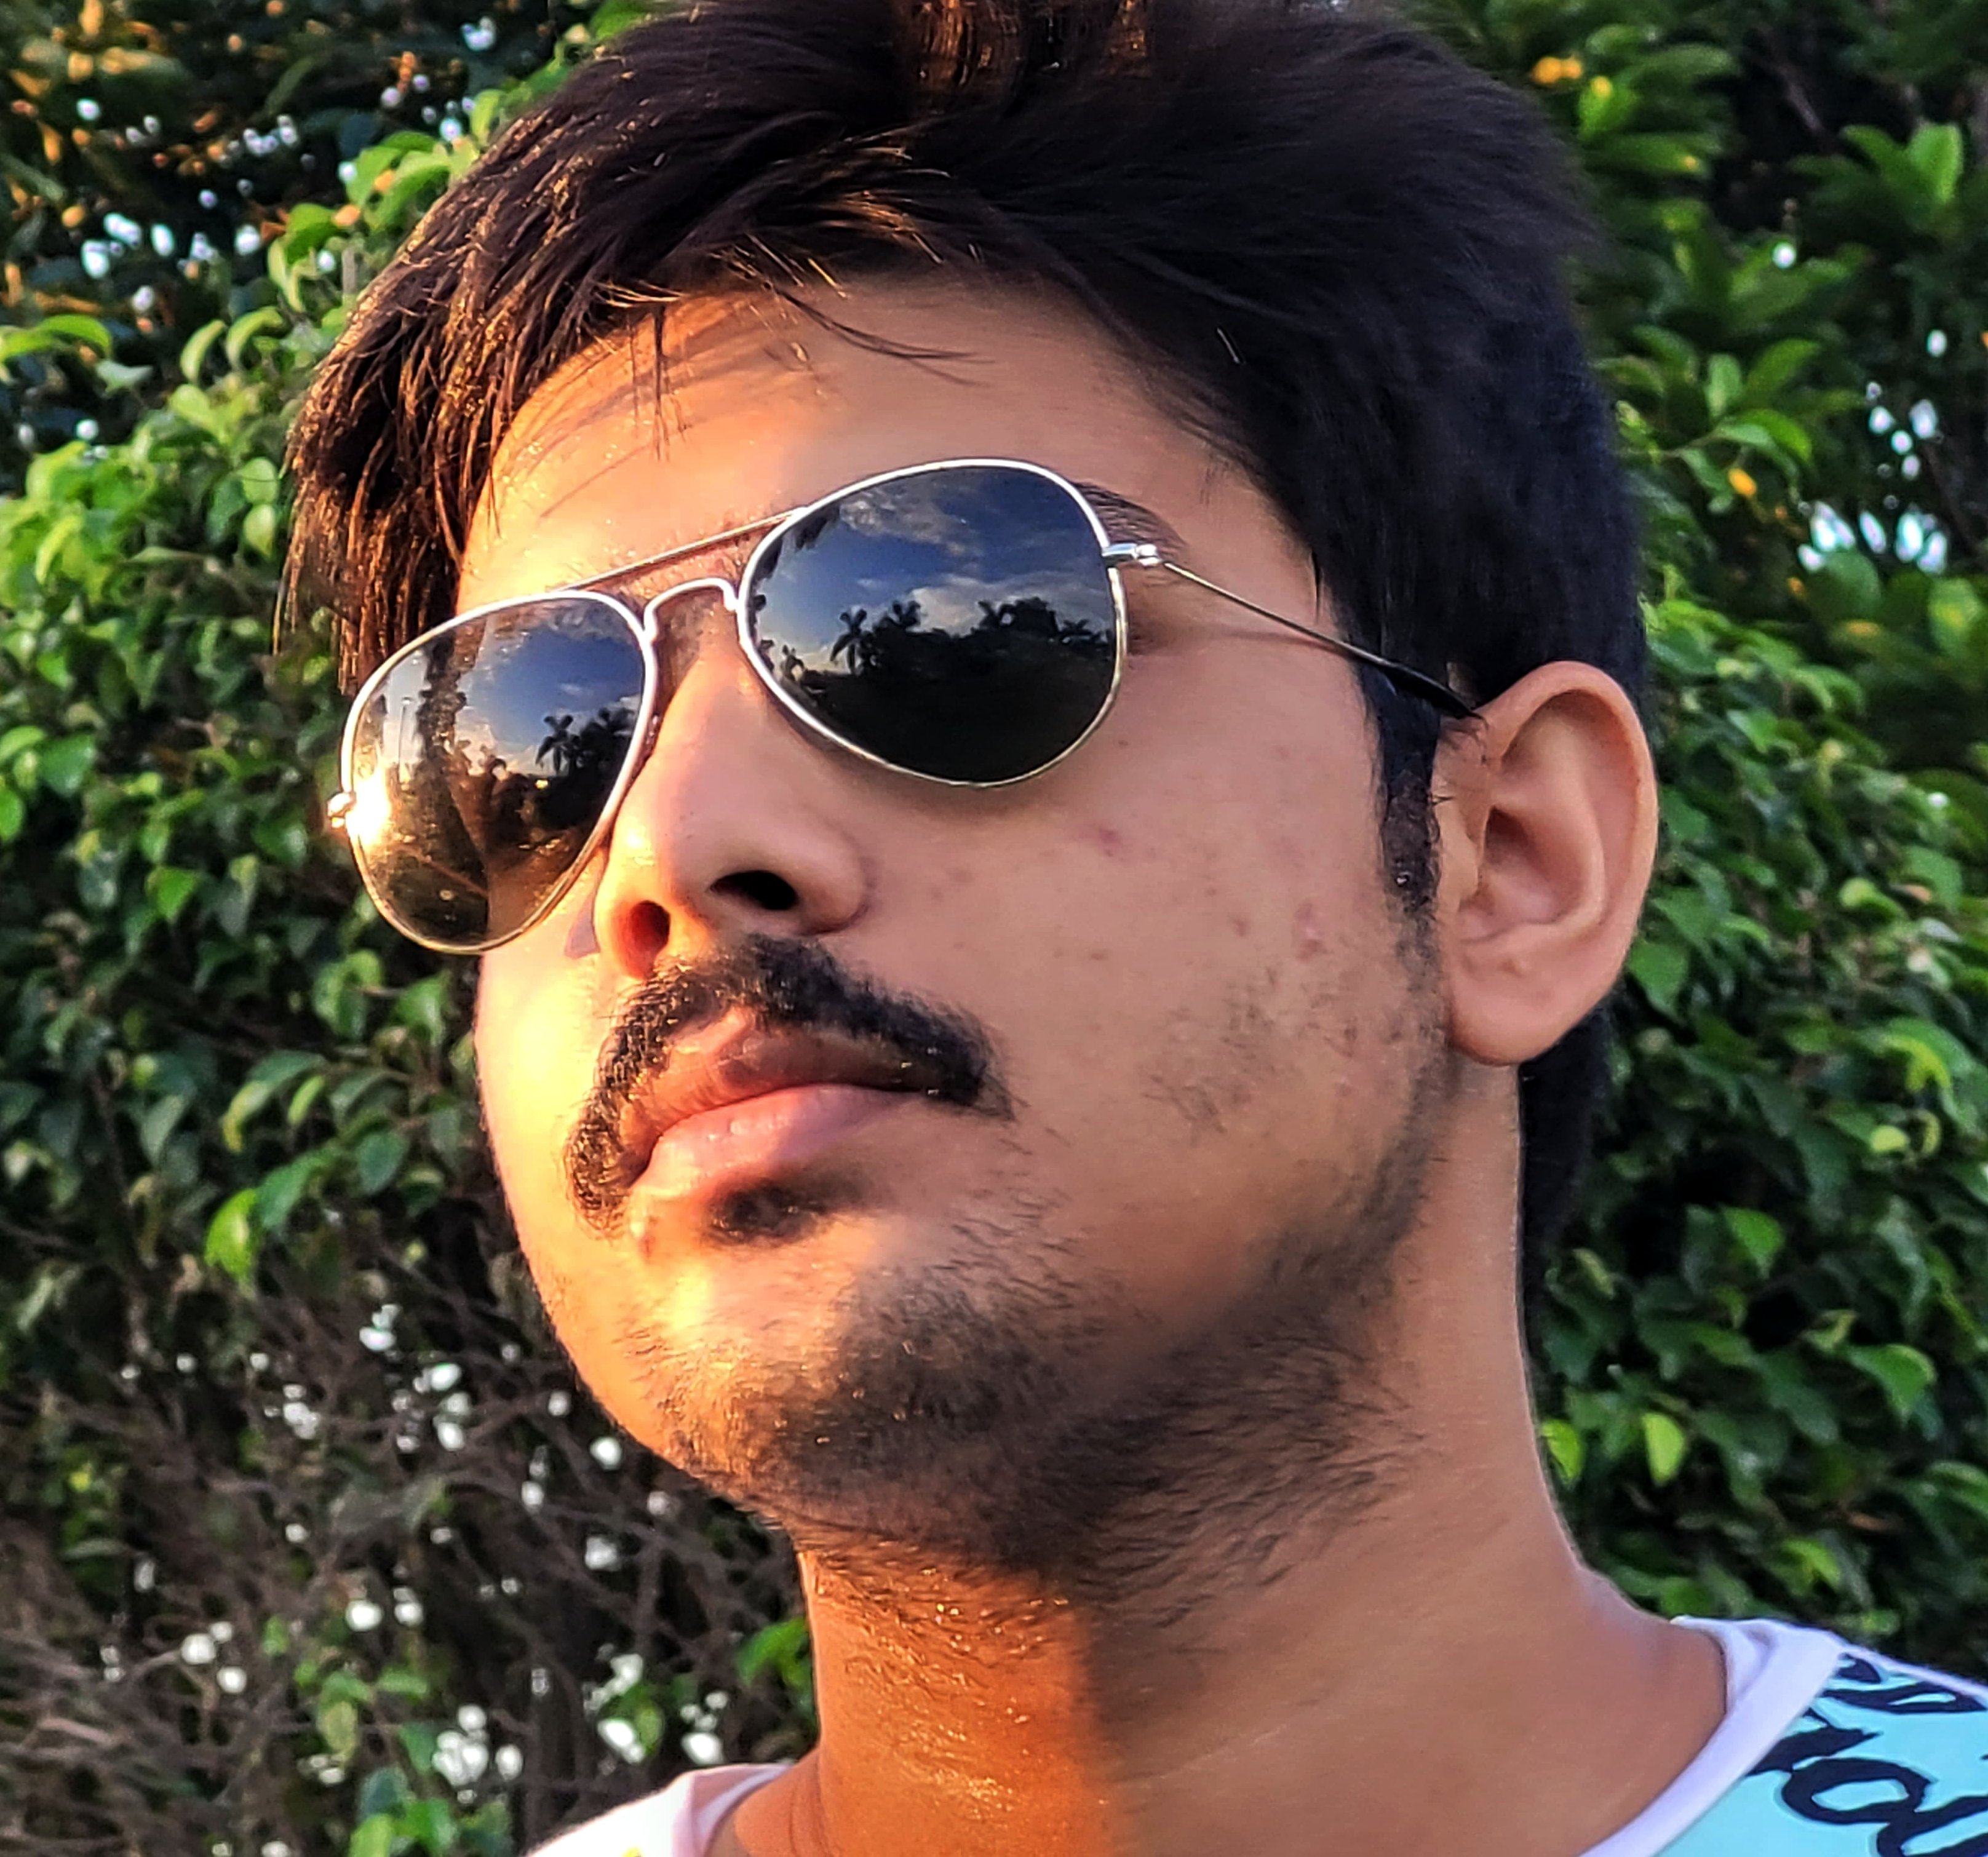
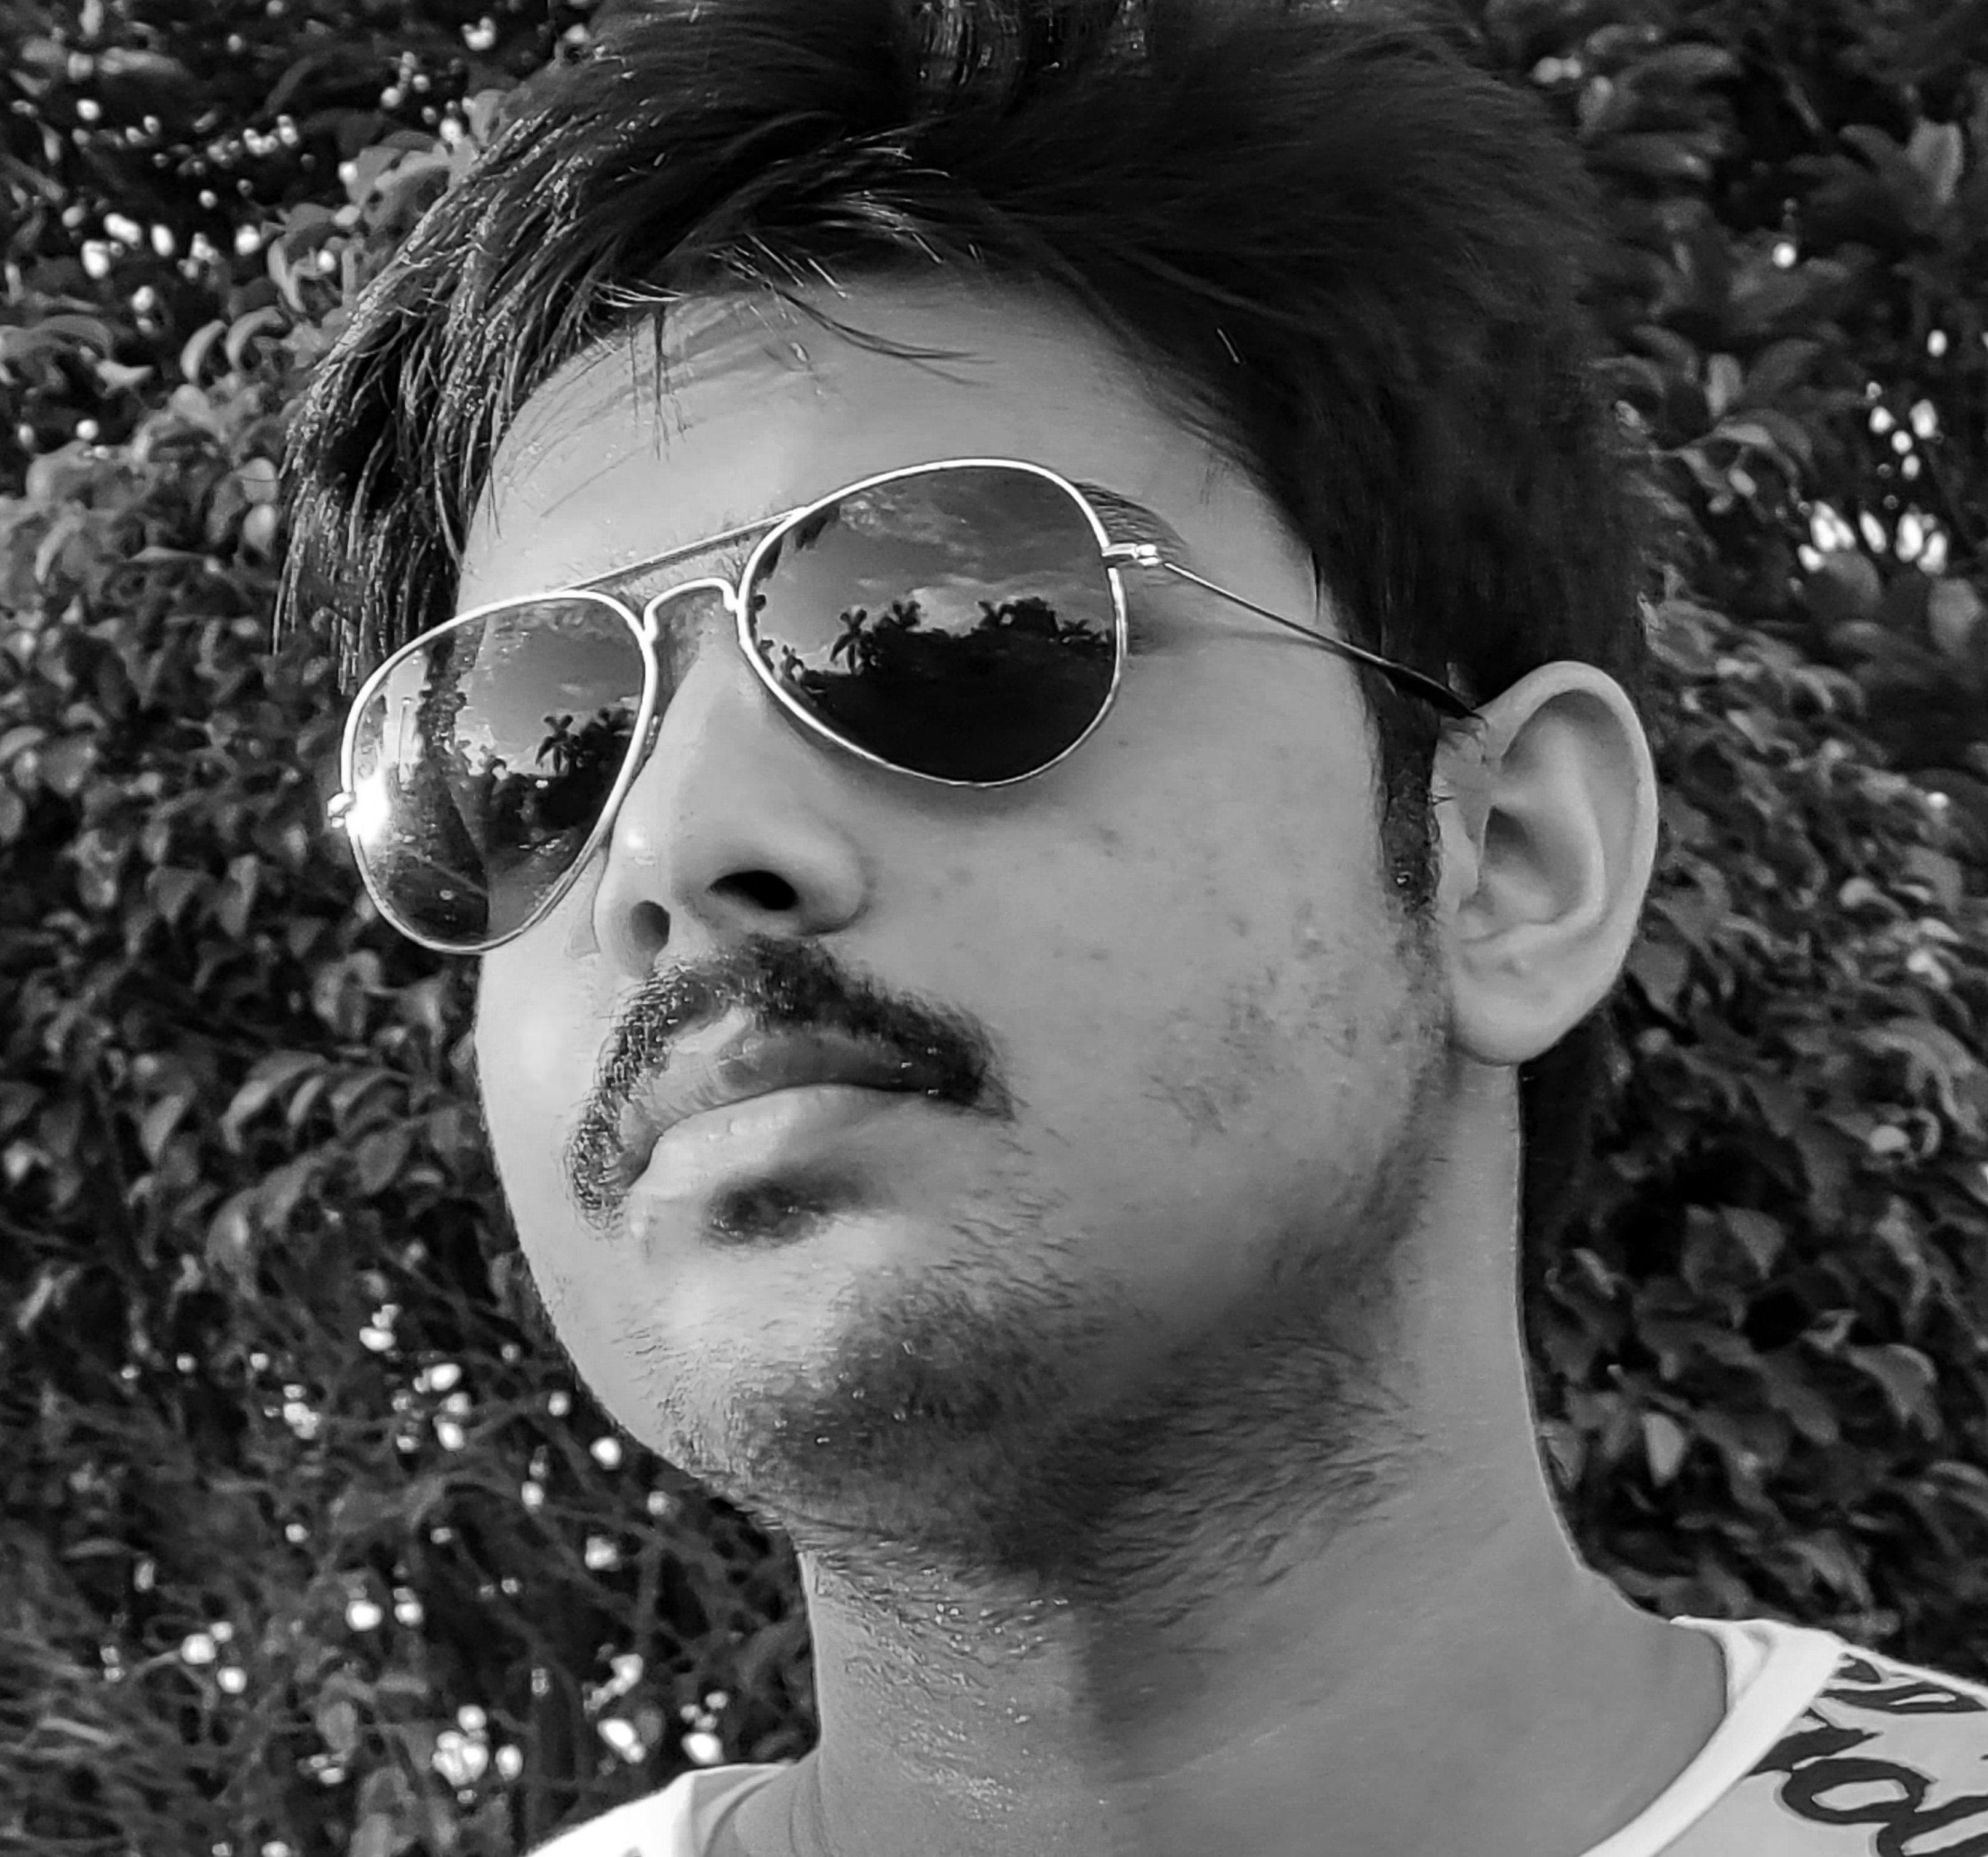
img fix

diff --git a/components/ascii-art-demo.tsx b/components/ascii-art-demo.tsx
@@ -5,12 +5,12 @@ export default function AsciiArtDemo() {
   return (
     <AsciiArt
       src="/images/IMG-20251031-WA0018.jpg"
-      resolution={100}
-      color="var(--color-neutral-500)"
+      resolution={120}
+      color="#FFFFFF"
       animationStyle="fade"
       animationDuration={1.5}
       animateOnView={false}
-      className="mx-auto aspect-square w-full max-w-lg bg-transparent"
+      className="mx-auto aspect-square w-full max-w-lg bg-transparent drop-shadow-[0_0_15px_rgba(255,255,255,0.3)]"
     />
   );
 }